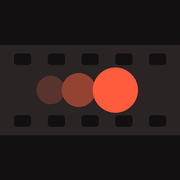
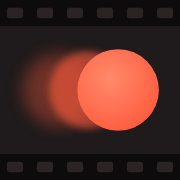
앱 아이콘 다시 그리기: 필름이 꽉 차게, 원은 흐려지며 겹치는 잔상
Claude-Session: https://claude.ai/code/session_01TCtfuRTGwJgSyYyLrYvBqv

Changed region(s): [[0.1111, 0.25, 0.8889, 0.75]]

diff --git a/sw.js b/sw.js
@@ -1,5 +1,5 @@
 // 움짤공방 오프라인 캐시: 앱 파일은 네트워크 우선(업데이트 반영), 끊기면 캐시로.
-const CACHE = 'umjjal-v1';
+const CACHE = 'umjjal-v2';
 const ASSETS = [
   './', './index.html', './app.js', './lib/gifenc.js', './lib/gifuct.js',
   './manifest.webmanifest', './icons/icon.svg', './icons/icon-192.png', './icons/icon-512.png', './icons/apple-touch-icon.png',

diff --git a/CLAUDE.md b/CLAUDE.md
@@ -51,5 +51,5 @@ Live Photo 읽기(웹에서 불가), GIF 검색(GIPHY API 키 필요), AI 배경
 
 ## 배포·업데이트
 - GitHub 무료 플랜은 **공개 저장소**에서만 Pages 사용 가능. Settings → Pages → Deploy from a branch → `main` / `(root)`.
-- `sw.js`는 같은 출처 파일을 네트워크 우선으로 받아서 보통은 바로 반영됨. 캐시 문제가 생기면 `CACHE = 'umjjal-v1'`의 숫자를 올릴 것.
+- `sw.js`는 같은 출처 파일을 네트워크 우선으로 받아서 보통은 바로 반영됨. 캐시 문제가 생기면 `CACHE = 'umjjal-v2'`의 숫자를 올릴 것.
 - 로컬 확인: `python3 -m http.server 8000` 후 `http://localhost:8000` (file://로 열면 ES 모듈이 막힘).
